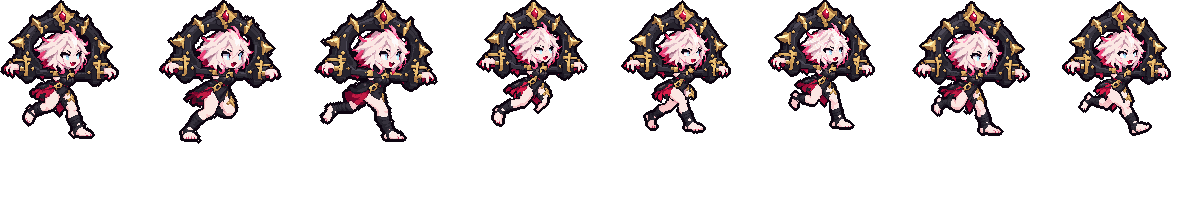
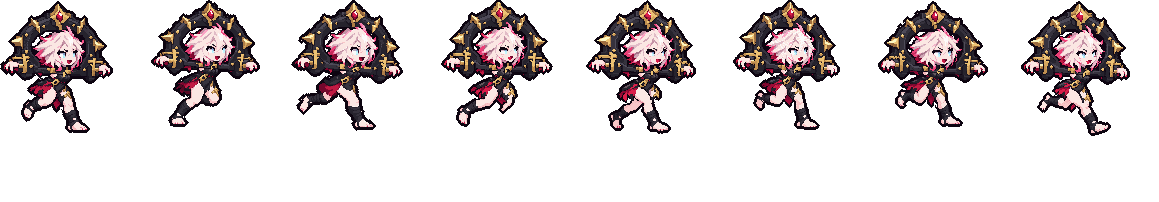
贝蕾亚跑步修"模型变大变小"：第 0、1、2、6 帧整个人比其余四帧和待机大 6-10%（刑架两臂金十字距离 74-78 格，设计稿 70），是 run_1 / run_2 / run_5 三张原稿的缩放估小了；casts_briar_hd.py 新加 FRAME_ZOOM，这四帧按自己的缩放（7.2 / 6.7 / 6.55 / 7.14）从原稿重新读，改后 8 帧刑架距离 69.3-71.2 格、头宽 47-49 格；还是从原稿读不是缩像素，脚底照旧对齐原来的位置；其余四帧和所有别的动作一格不变。这四帧画框变小，fanim 改了，安装要重编 league.dll（用户：「模型不要变大变小」

Changed region(s): [[0.0, 0.0, 0.994, 0.6832]]

diff --git a/tools/art/casts_briar_hd.py b/tools/art/casts_briar_hd.py
@@ -57,6 +57,13 @@ ZOOM = {"run_1": 6.8, "run_2": 5.98, "run_3": 6.74, "run_4": 7.38, "run_5": 6.68
         "ult_fly_3": 7.37, "ult_fly_4": 6.38, "ult_land_1": 6.53, "ult_land_2": 6.71, "hit_1": 6.61, "dead_1": 6.07,
         "dead_2": 5.8, "dead_3": 6.95, "dead_4": 6.35, "dead_5": 7.89, "dead_6": 7.14, "attack_fx1_1": 6.84,
         "attack_fx1_2": 6.66, "attack_fx1_3": 7.42, "attack_fx1_4": 6.03, "attack_fx1_5": 6.22}
+# (the user, 2026-11-16, on the runs drawn frame by frame: 「模型不要变大变小」) frames read at their own zoom instead of
+# their sheet's: the run's sheets run_1, run_2 and run_5 came out 6-10 % over her design - the pillory a size bigger
+# in frames 1-3 and 7 than in the other four and her idle_base (the distance between the two gold crosses on the
+# pillory's arms 74-78 squares against the design's 70; --measure's head fit 7.2 / 6.5 / 6.6 against ZOOM's 6.8 /
+# 5.98): each read at the zoom that puts the crosses 70 squares apart (69.5-70.5) and the head 47 squares wide at the
+# eyes, as in the other run frames (69.3-71.2, 47-49) and the design (70.3, 47)
+FRAME_ZOOM = {"run_1": 7.2, "run_2": 6.7, "run_3": 6.55, "run_7": 7.14}
 ZOOMS = np.arange(4.0, 10.01, 0.1)                      # the zooms the head is searched at (6-px templates)
 PIVOT = 71                      # the design's column on the old idle_base's pivot (overlap peak 0.84)
 
@@ -115,7 +122,8 @@ def read_all():
         a, ms = frame_masks(s)
         for k, m in ms:
             L, T, R, B = old_box(s["tag"], k)
-            out[f"{s['tag']}_{k}"] = (at_zoom(a, m, ZOOM[s["name"]]), (L + R) / 2 * PPU, B * PPU, ZOOM[s["name"]])
+            z = FRAME_ZOOM.get(f"{s['tag']}_{k}", ZOOM[s["name"]])
+            out[f"{s['tag']}_{k}"] = (at_zoom(a, m, z), (L + R) / 2 * PPU, B * PPU, z)
     for tag, m in PK.SAME.items():
         for k, src in m.items():
             if src == PK.DESIGN:
